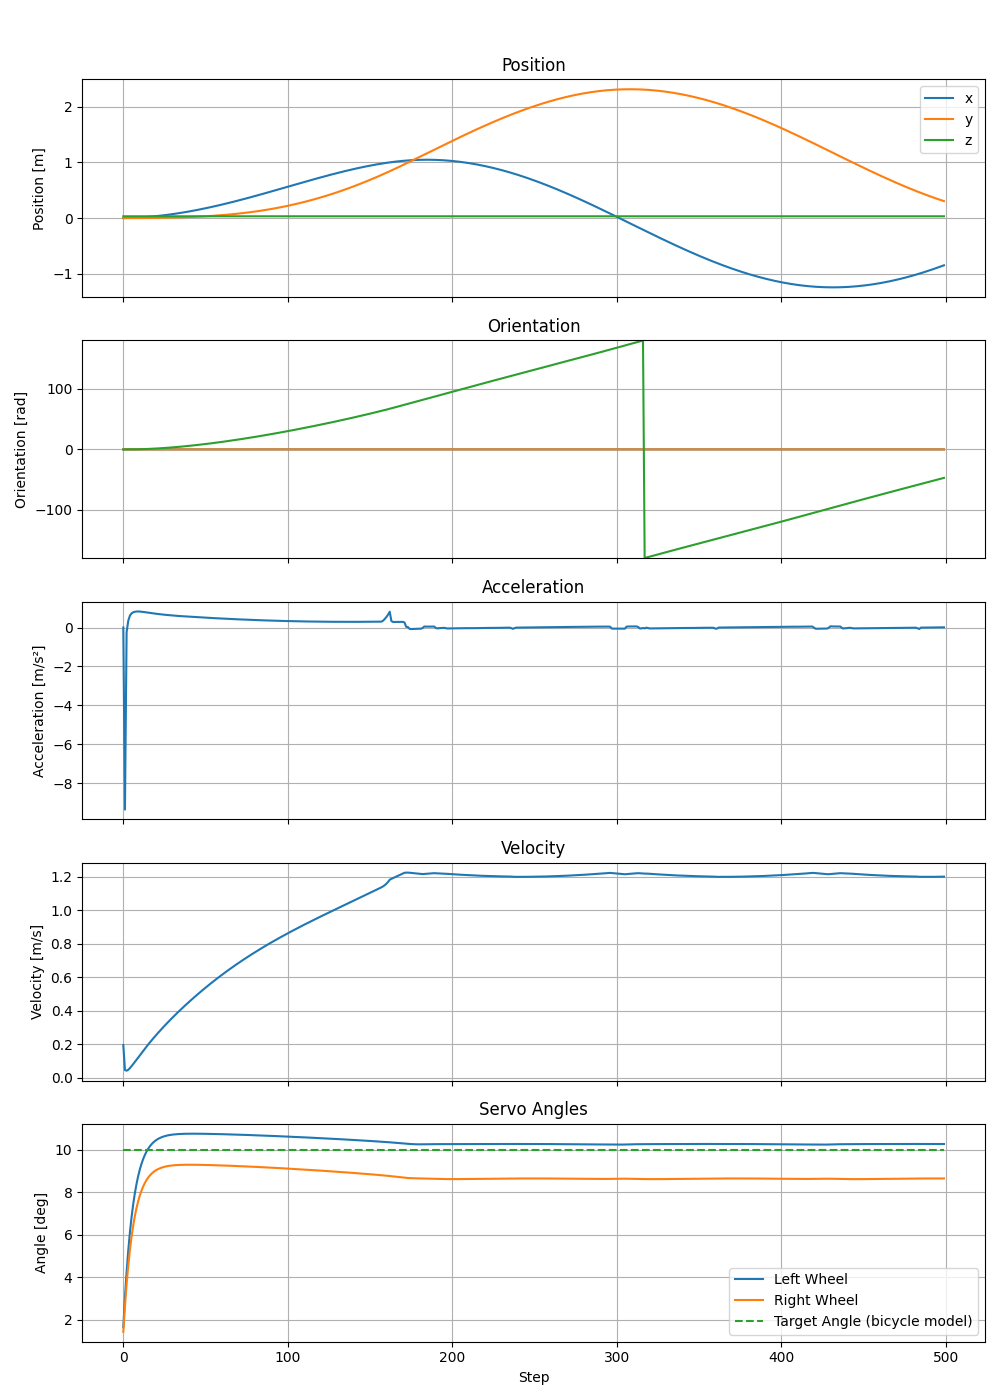
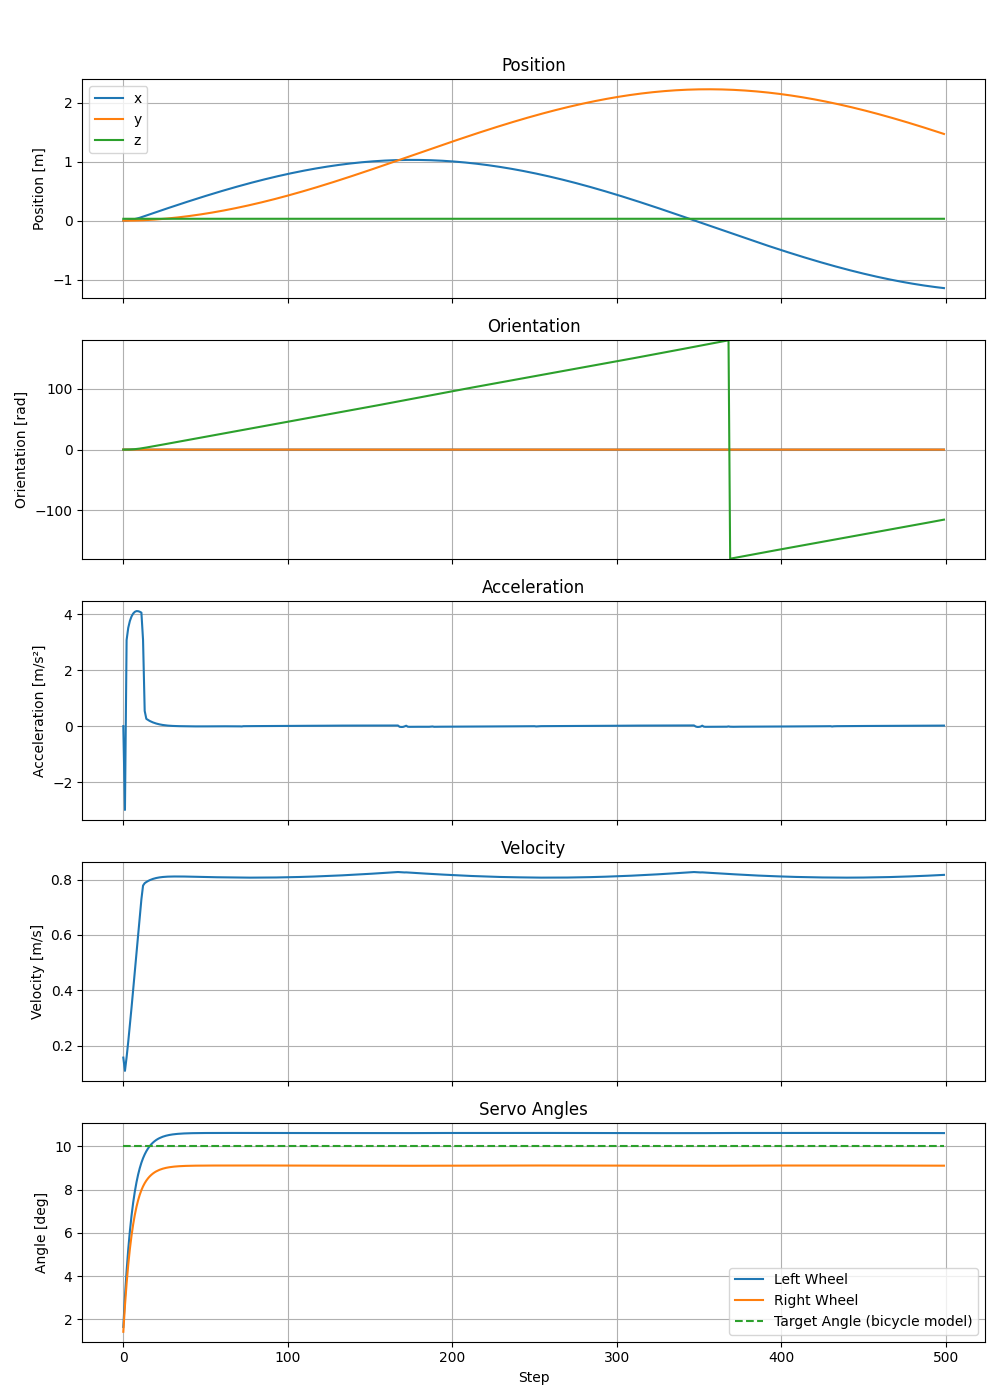
Servo's tuned - mystery of negative acceleration remains

diff --git a/controllers/alamak/alamak.py b/controllers/alamak/alamak.py
@@ -56,7 +56,7 @@ servo_encoders = []
 
 steps_to_plot = 500
 
-motors.velocity = 30
+motors.velocity = 20
 ackermann.angle = 10
 
 while robot.step(TIME_STEP) != -1:
